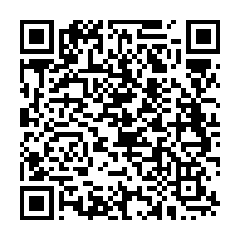
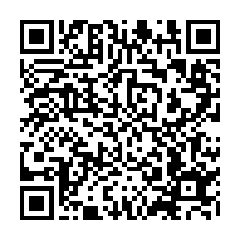
Update donation address.

Changed region(s): [[0.0583, 0.0583, 0.9333, 0.9333]]

diff --git a/content/about.md b/content/about.md
@@ -76,13 +76,13 @@ I have created a bare-bones and simple `monerod` Docker image that compiles from
 
 I also host a set of Tor relay/guard nodes, available at the below addresses:
 
-`tor-1.sethsimmons.me:443`
-`tor-2.sethsimmons.me:443`
-`tor-3.sethsimmons.me:443`
+`tor-1.sethsimmons.me:443`  
+`tor-2.sethsimmons.me:443`  
+`tor-3.sethsimmons.me:443`  
 
 ## Donations
 
 If you've enjoyed my blog and would like to give me a little more time to dedicate to it, I'll happily take any Moneroj you'd like to throw my way:
 
-{{< figure src="/donation.png" position="center" style="border-radius: 8px;" link="monero:86VpUsSB138JCPJvTepPy1bpSdUtorMkQ8XaJVEGie3RfWqpQbiqdTP32nfcW1bXQ7HcJrfLYpysAWSePasGwtNn4p72YYF" >}}
[1 lines of base64/hex data omitted]
+{{< figure src="/donation.png" position="center" style="border-radius: 8px;" link="monero:86JzKKyZvtEC98y6zJxCCVfcA3r75XngPBjpYDE6zRR36keNGMHwZomDjMCv1oCYB2j9myiFqEJQF3JtnhKdfX546T91eaY" >}}
[1 lines of base64/hex data omitted]
